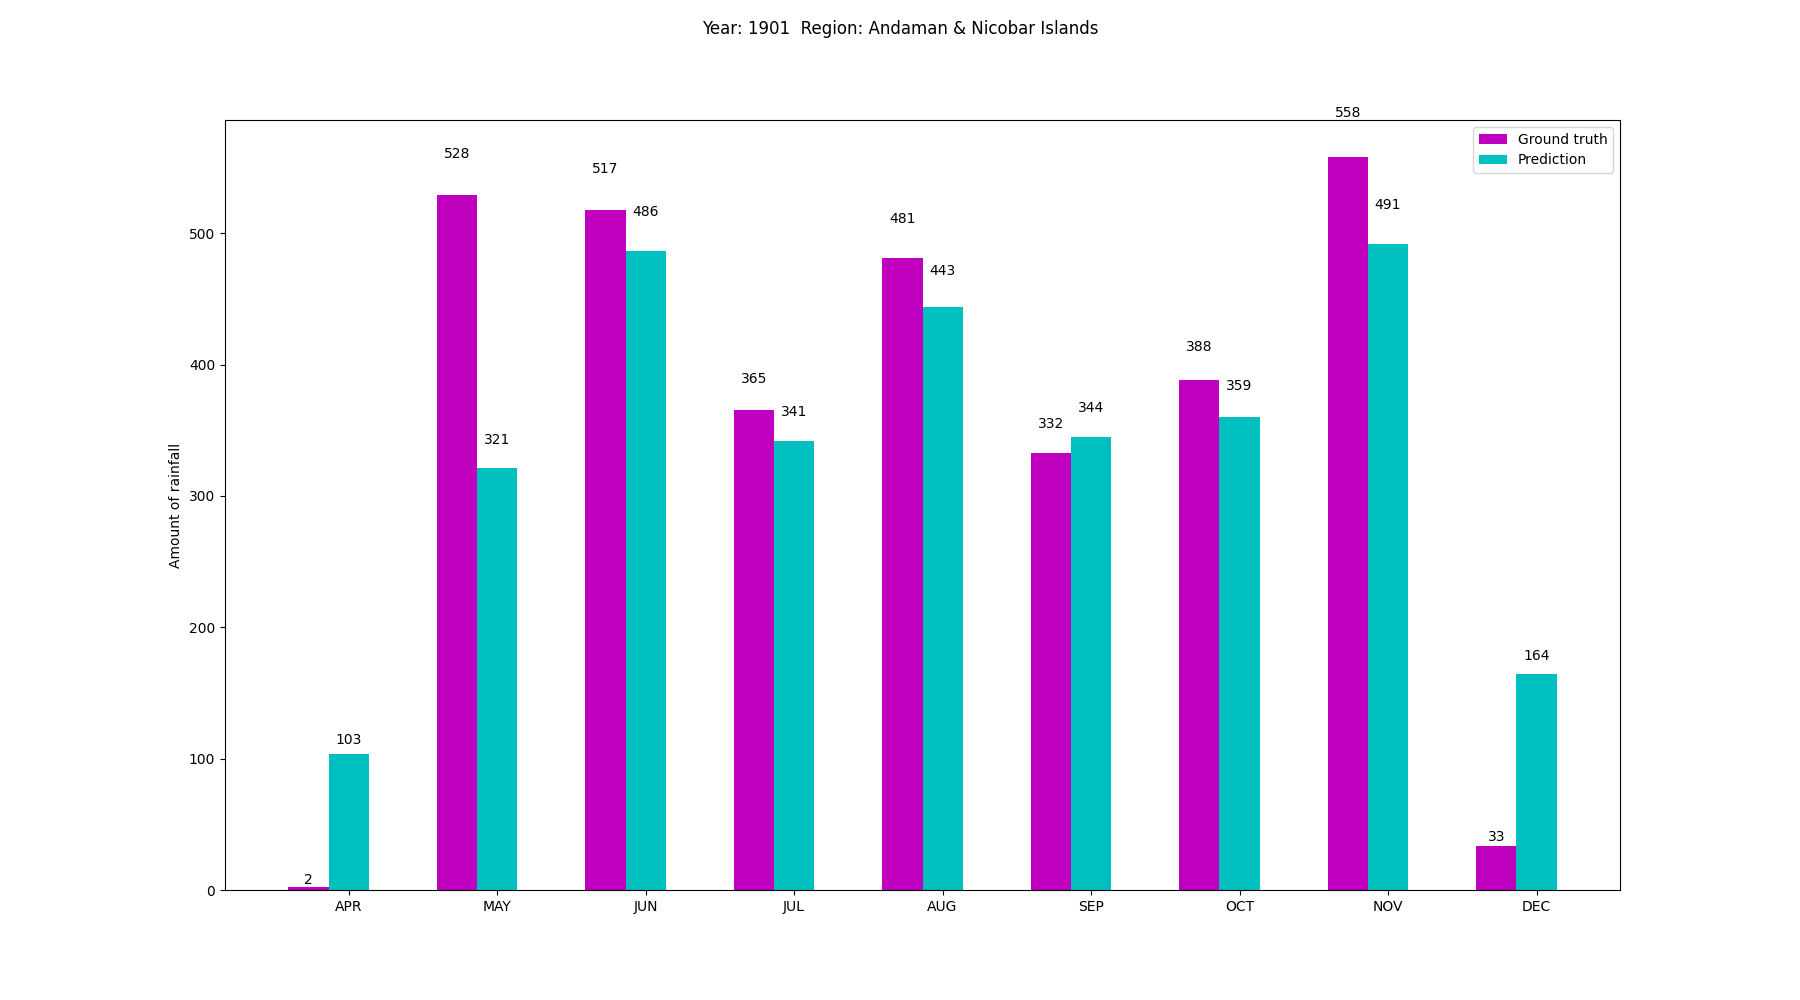
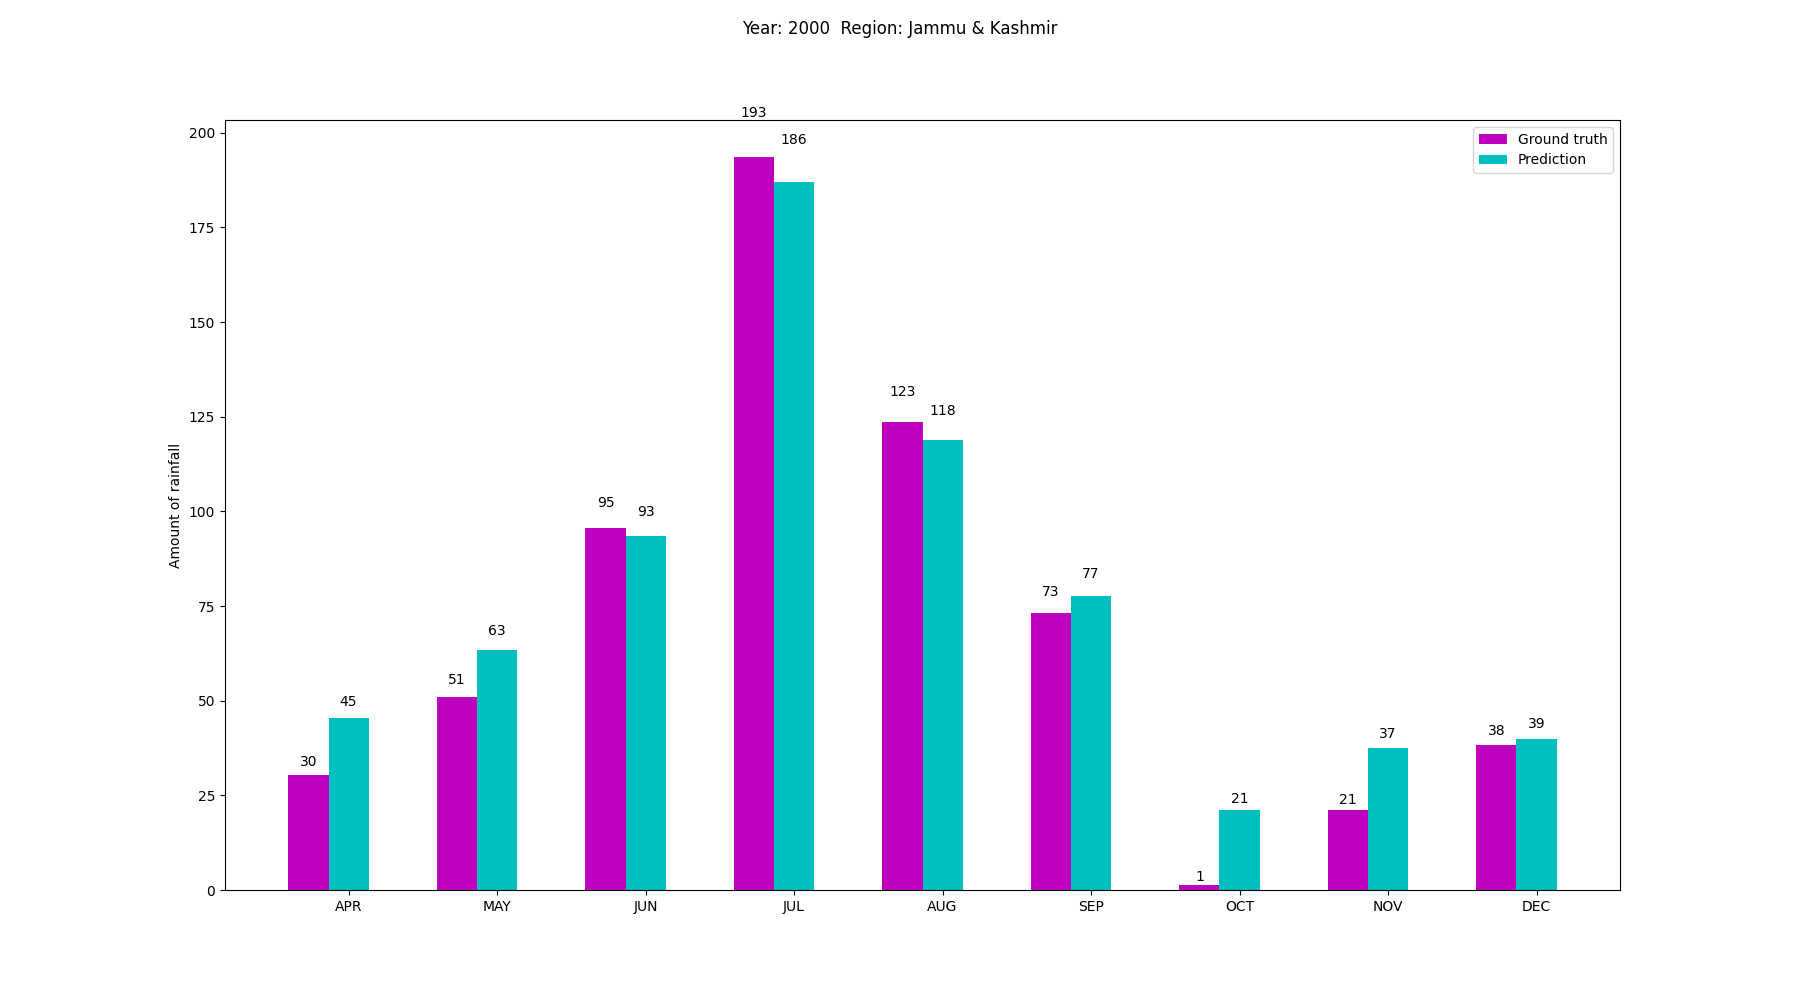
Integrated Chatbot
Added a BotPress ChatBot.

diff --git a/SourceCode/templates/index.html b/SourceCode/templates/index.html
@@ -1,5 +1,4 @@
 <!DOCTYPE HTML>
-
 <html>
     <head>
         <title>Sahay - A Hub for Disaster Management & Response</title>
@@ -20,7 +19,6 @@
                 cursor: pointer; /* Change cursor to pointer on hover */
             }
         </style>
-    
     </head>
     <body class="is-preload">
 
@@ -166,7 +164,6 @@
         </div>
 
         <!-- Footer -->
-         
         <footer id="footer" class="wrapper style1-alt">
             <div class="inner">
                 <ul class="menu">
@@ -184,5 +181,8 @@
         <script src="{{ url_for('static', filename='js/util.js') }}"></script>
         <script src="{{ url_for('static', filename='js/main.js') }}"></script>
 
+        <!-- Botpress Chatbot Scripts at the end -->
+        <script src="https://cdn.botpress.cloud/webchat/v2.3/inject.js"></script>
+        <script src="https://files.bpcontent.cloud/2025/04/10/05/20250410053549-DRDOWAF8.js"></script>
     </body>
 </html>